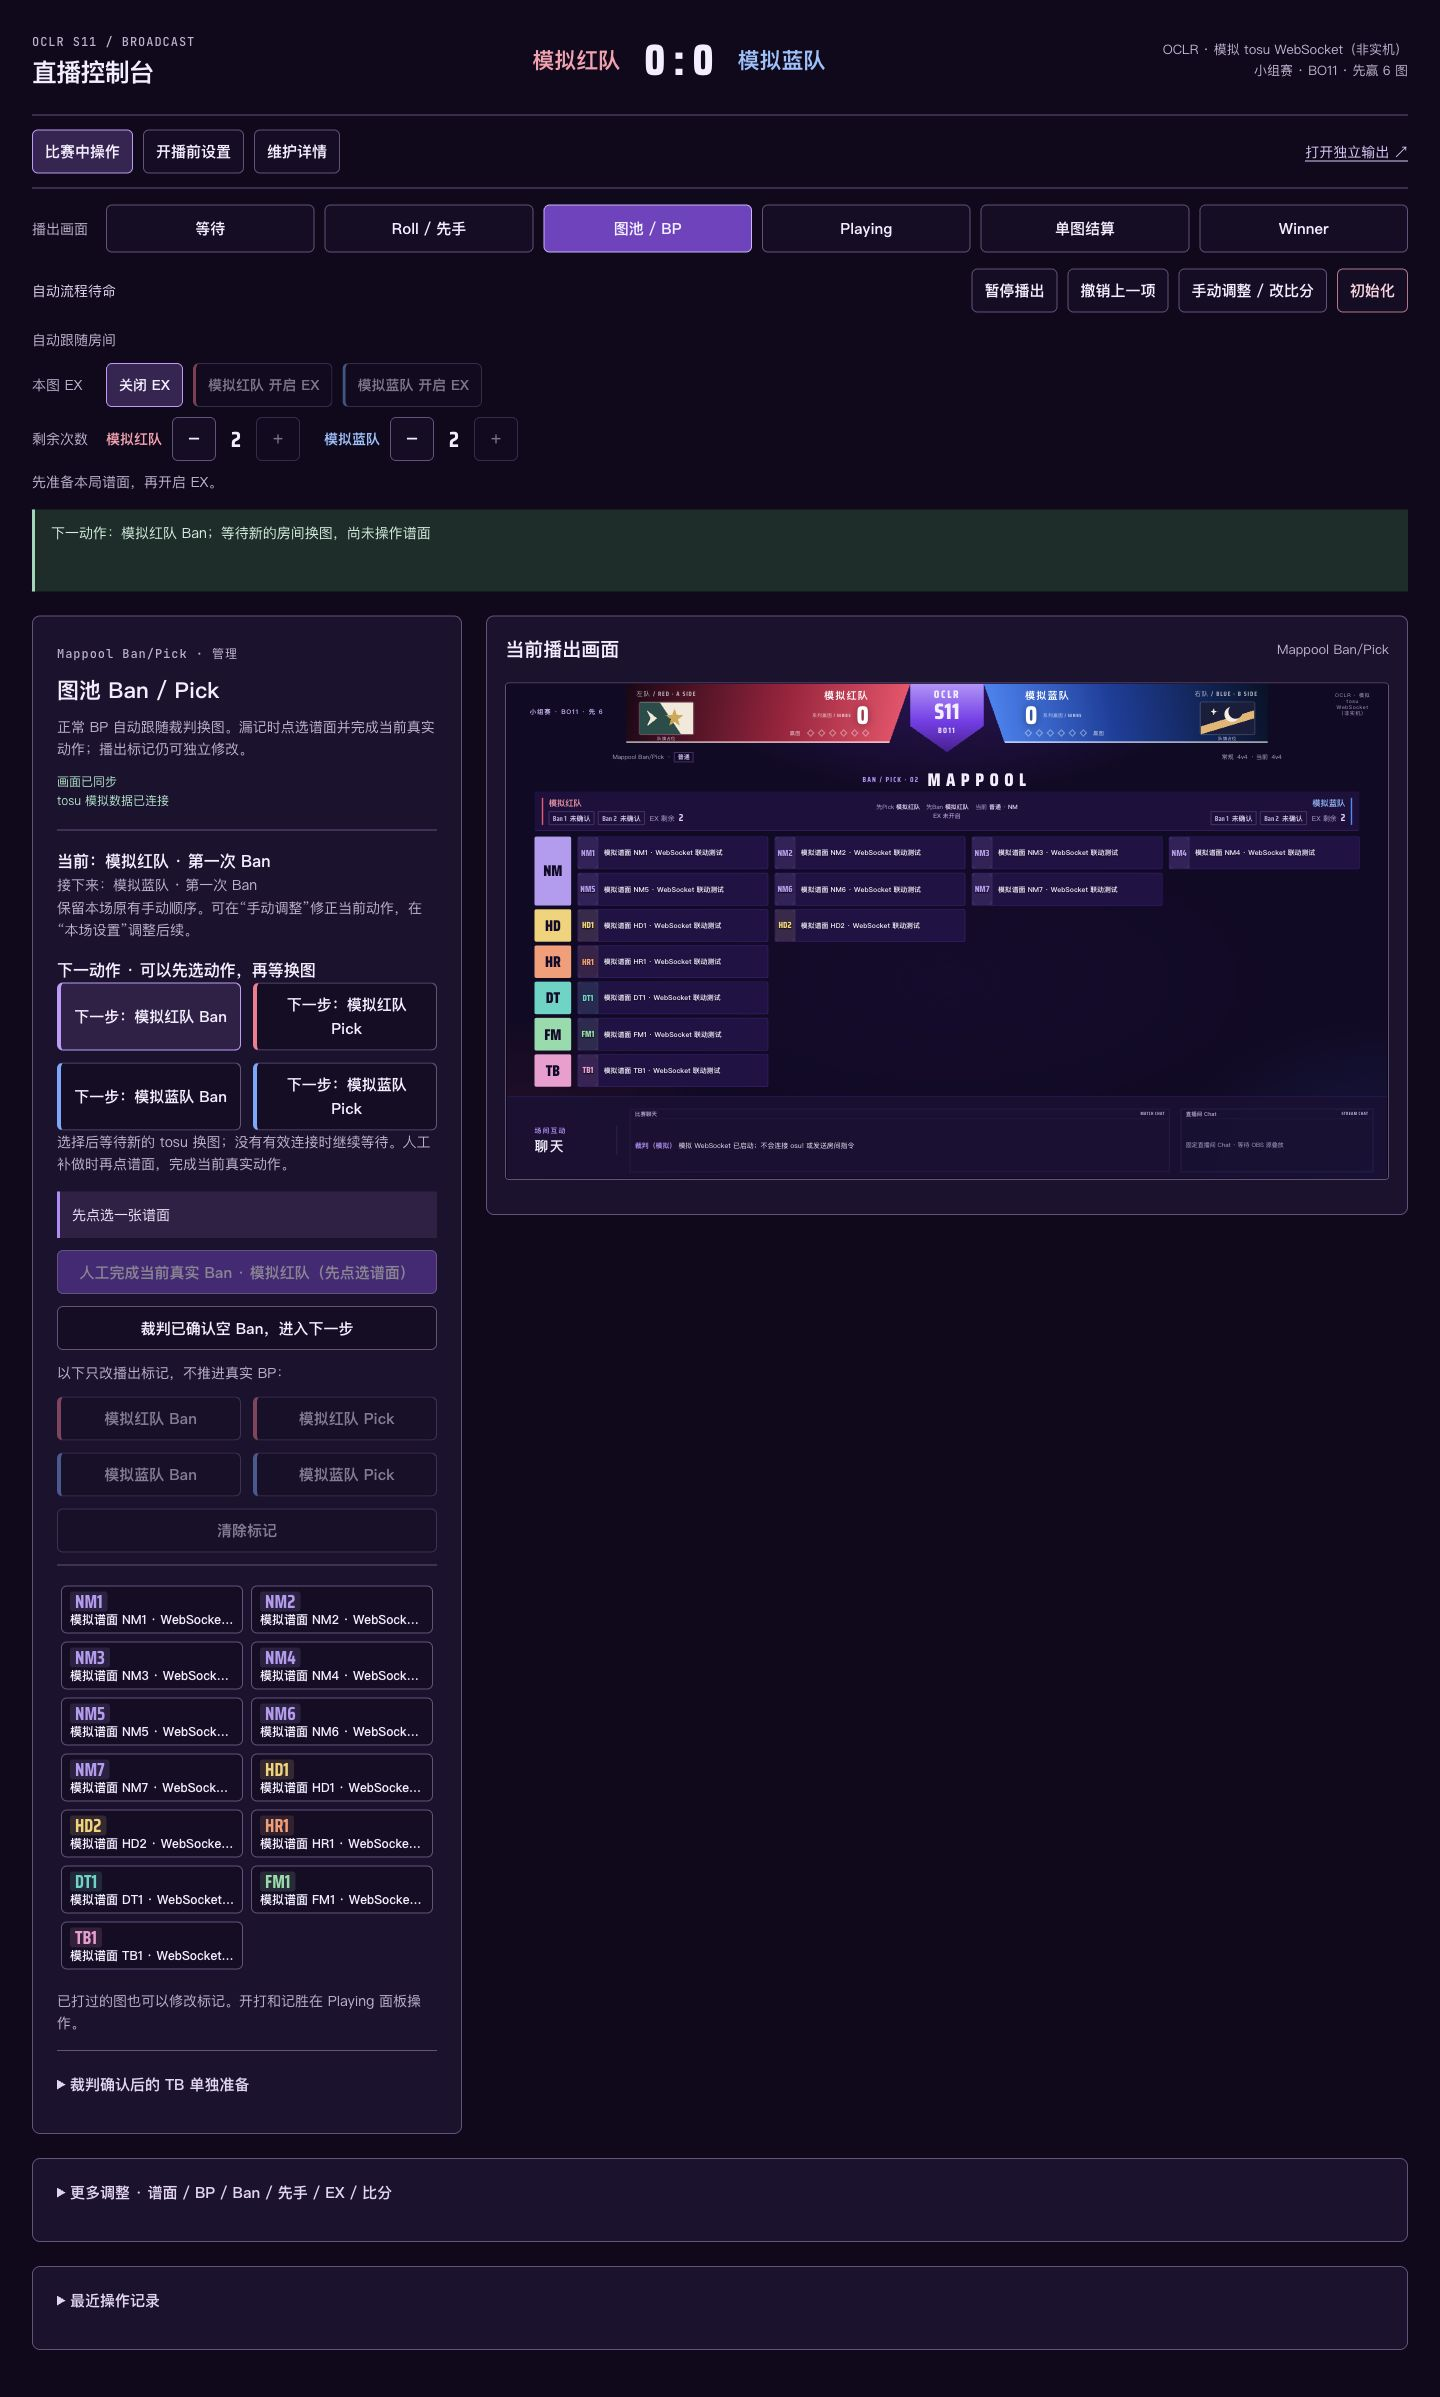
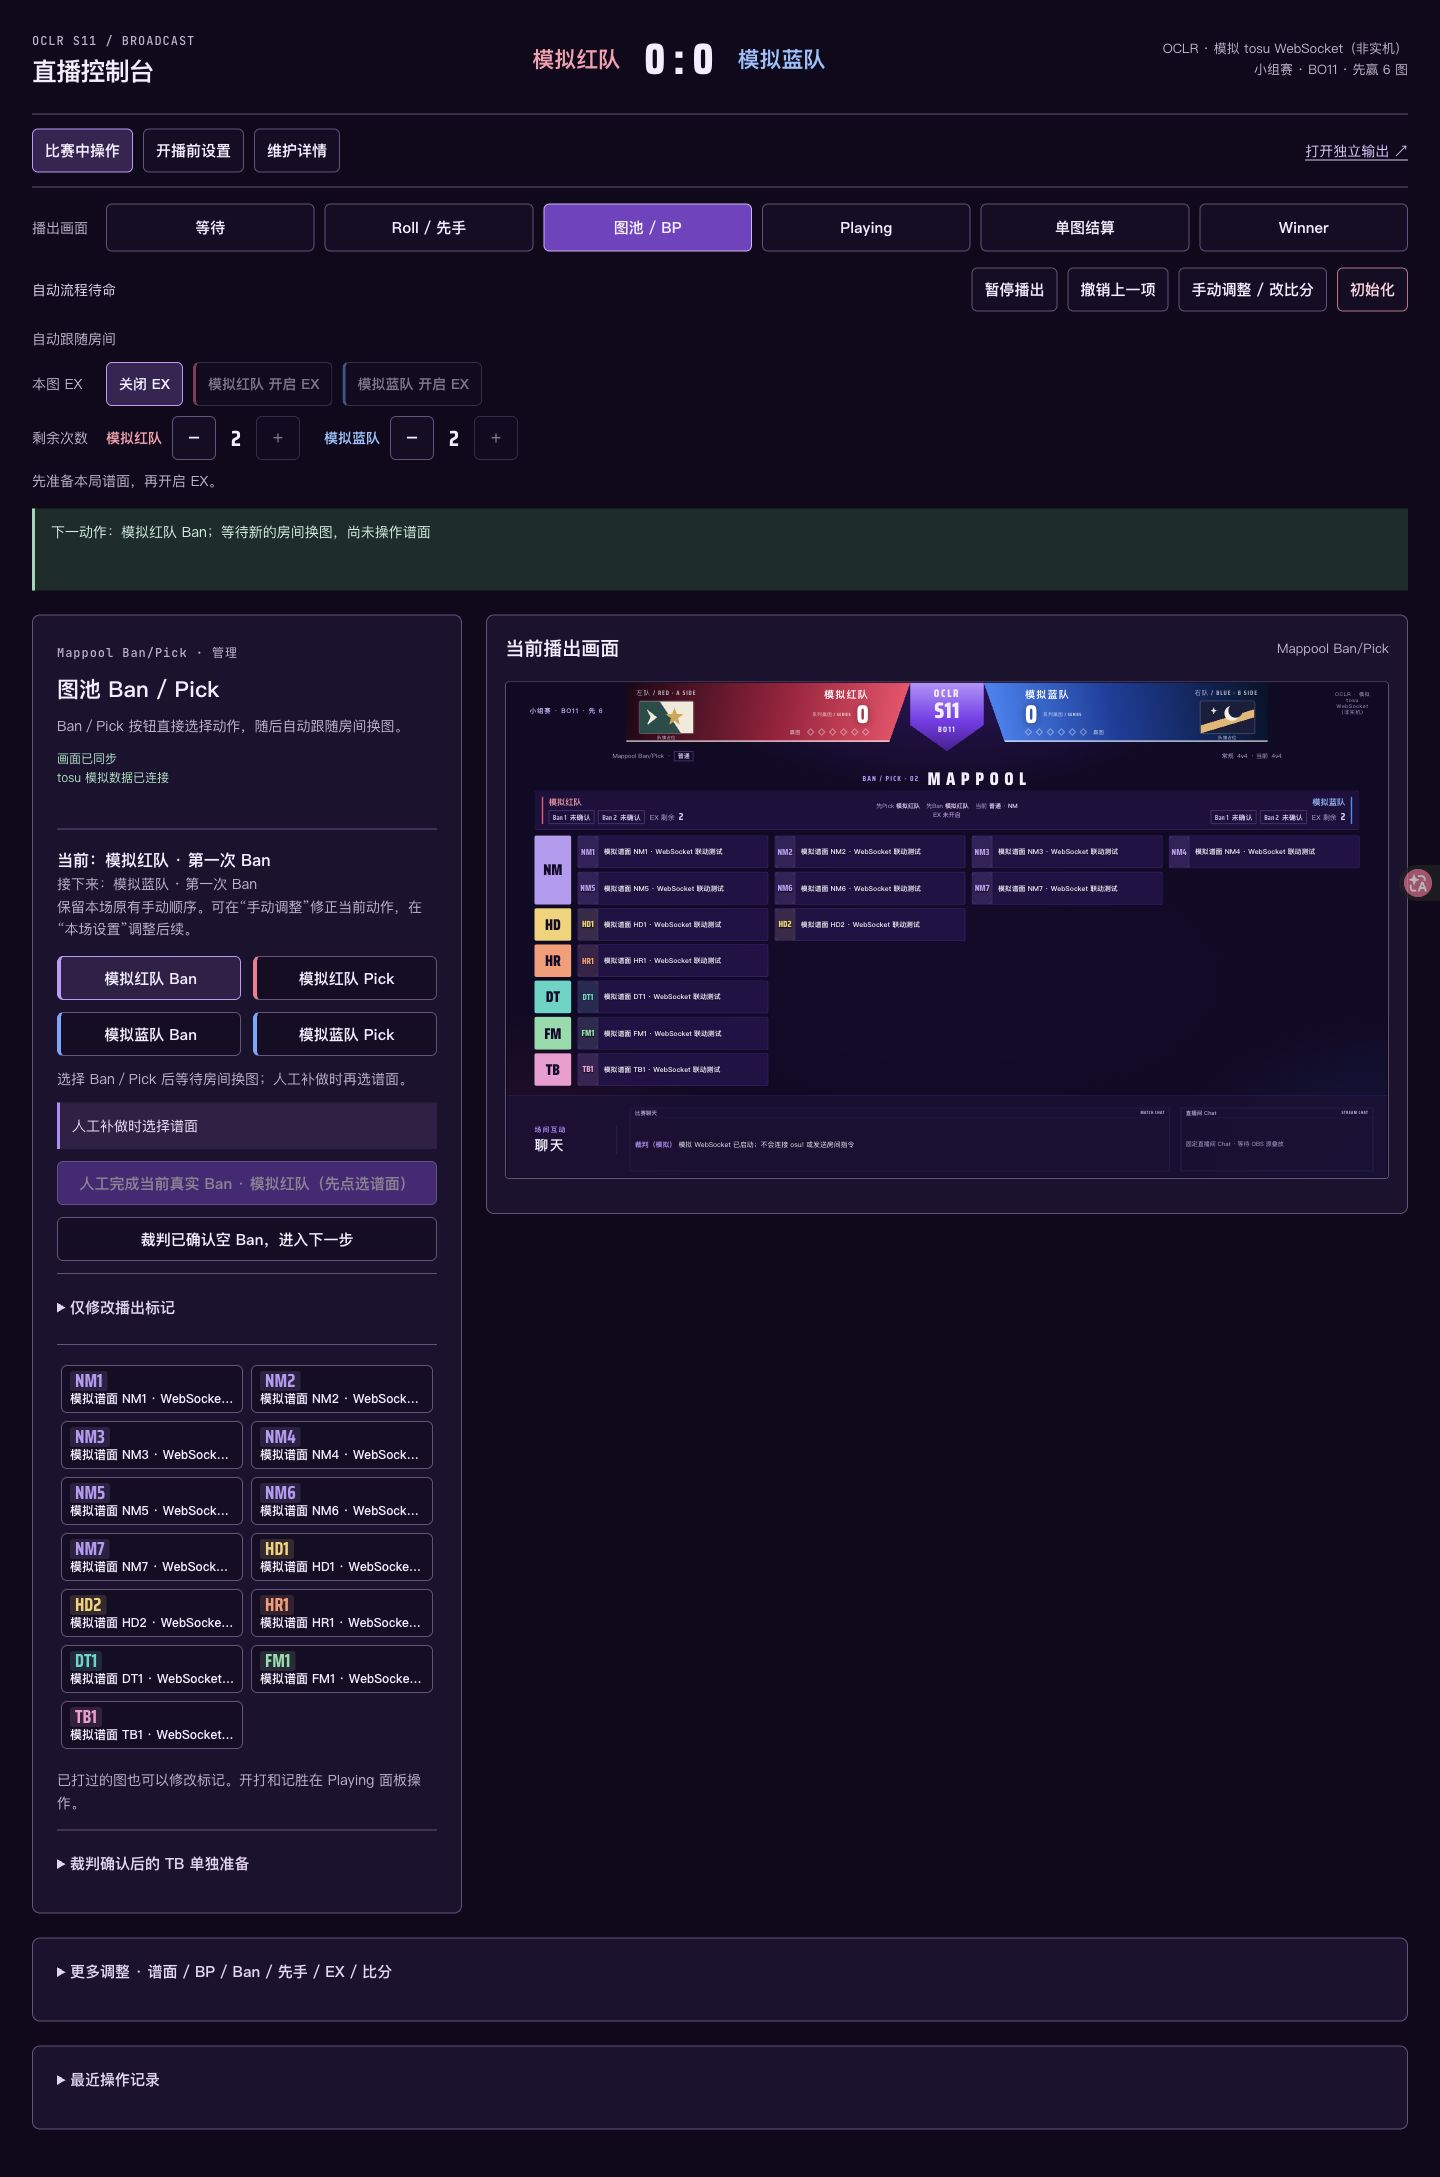
overlay: Use one set of Ban and Pick controls

diff --git a/ui/components/OperatorConsole.vue b/ui/components/OperatorConsole.vue
@@ -348,7 +348,7 @@ const nextStep = computed(() => {
   if (connection.value !== 'synced') return '控制台连接中断，正在重新连接。恢复后核对最近操作再继续。';
   if (panel.value === 'waiting') return '在这里管理双方到场与就绪状态。';
   if (panel.value === 'roll') return '分别选择先 Ban 与先 Pick，新比赛自动建立顺序；已发生的 BP、当前局和比分保留。';
-  if (panel.value === 'mappool') return '正常 BP 自动跟随裁判换图。漏记时点选谱面并完成当前真实动作；播出标记仍可独立修改。';
+  if (panel.value === 'mappool') return 'Ban／Pick 按钮直接选择动作，随后自动跟随房间换图。';
   if (panel.value === 'pause') return '调整暂停类型或返回原画面，保留比赛记录。';
   if (panel.value === 'victory') return '核对最终系列比分，选择胜方展示，或准备下一场。';
   if (s.value?.incident) return '本图自动加分已暂停。请核对实际赛果，或使用现场处理继续等待 / 重赛。';
@@ -484,18 +484,16 @@ const operationTime = (value: string) => new Date(value).toLocaleTimeString('zh-
                 <p v-if="s.bp?.mode !== 'roll'">保留本场原有手动顺序。可在“手动调整”修正当前动作，在“本场设置”调整后续。</p>
                 <p v-if="s.bp?.rollChanged">Roll 先手已修正；真实 BP 顺序保持原样，需要时使用手动纠错。</p>
               </div>
-              <section class="operator-next-action" aria-label="选择下一 BP 动作">
-                <h3>下一动作 · 可以先选动作，再等换图</h3>
-                <div class="operator-bp-buttons"><template v-for="team in (['a', 'b'] as const)" :key="team"><button v-for="kind in (['ban', 'pick'] as const)" :key="kind" :data-team="team" :aria-pressed="s.action?.team === team && s.action.kind === kind" :disabled="disabled || !!s.incident || s.paused || !!s.bp?.stopped || round?.status === 'prepared' || round?.status === 'playing'" @click="run('select-bp-action', { team, kind })">下一步：{{ names[team] }} {{ kind === 'ban' ? 'Ban' : 'Pick' }}</button></template></div>
-                <p>选择后等待新的 tosu 换图；没有有效连接时继续等待。人工补做时再点谱面，完成当前真实动作。</p>
-              </section>
-              <div class="operator-pool-actions"><p class="operator-action-now">{{ poolSelection ? `${poolSelection.label} · ${poolState(poolSelection.id) || '无标记'}` : '先点选一张谱面' }}</p>
+              <div class="operator-pool-actions">
+              <div class="operator-bp-buttons" aria-label="BP 动作"><template v-for="team in (['a', 'b'] as const)" :key="team"><button v-for="kind in (['ban', 'pick'] as const)" :key="kind" :data-team="team" :aria-pressed="s.action?.team === team && s.action.kind === kind" :disabled="disabled || !!s.incident || s.paused || !!s.bp?.stopped || round?.status === 'prepared' || round?.status === 'playing'" @click="run('select-bp-action', { team, kind })">{{ names[team] }} {{ kind === 'ban' ? 'Ban' : 'Pick' }}</button></template></div>
+              <p class="operator-hint">选择 Ban／Pick 后等待房间换图；人工补做时再选谱面。</p>
+<p class="operator-action-now">{{ poolSelection ? `${poolSelection.label} · ${poolState(poolSelection.id) || '无标记'}` : '人工补做时选择谱面' }}</p>
               <button v-if="s.bp?.canApply" class="operator-primary" :disabled="disabled || !canCompleteBp" @click="run('apply-bp', { entryId: poolEntryId, actionId: s.action?.id })">人工完成当前真实 {{ s.action?.kind === 'ban' ? 'Ban' : 'Pick' }} · {{ s.action ? names[s.action.team] : '' }}{{ poolSelection ? ` · ${poolSelection.label}` : '（先点选谱面）' }}</button>
               <button v-if="s.bp?.canReplace" :disabled="disabled || !canReplaceBp" @click="run('apply-bp', { entryId: poolEntryId })">替换本次准备图{{ poolSelection ? ` · ${poolSelection.label}` : '（先点选谱面）' }}</button>
               <button v-if="s.bp?.canApply && s.action?.kind === 'ban'" :disabled="disabled" @click="run('skip-ban', { actionId: s.action.id, reason: note('裁判确认本次放弃 / 空 Ban') })">裁判已确认空 Ban，进入下一步</button>
-              <p>以下只改播出标记，不推进真实 BP：</p>
+              <details class="operator-mark-correction"><summary>仅修改播出标记</summary><p>此处不改变真实 BP 进度。</p>
               <div class="operator-bp-buttons"><template v-for="team in (['a', 'b'] as const)" :key="team"><button v-for="kind in (['banned', 'picked'] as const)" :key="kind" :data-team="team" :aria-pressed="selectedMark?.team === team && selectedMark.status === kind" :disabled="disabled || !poolSelection" :data-unavailable="connection !== 'synced' || !poolSelection" @click="markPool(kind, team)">{{ names[team] }} {{ kind === 'banned' ? 'Ban' : 'Pick' }}</button></template></div>
-              <button :disabled="disabled || !poolSelection || selectedMark?.status === 'open'" :data-unavailable="connection !== 'synced' || !poolSelection || selectedMark?.status === 'open'" @click="markPool('open', null)">清除标记</button></div>
+              <button :disabled="disabled || !poolSelection || selectedMark?.status === 'open'" :data-unavailable="connection !== 'synced' || !poolSelection || selectedMark?.status === 'open'" @click="markPool('open', null)">清除标记</button></details></div>
               <div class="operator-pool" aria-label="本场图池"><button v-for="e in s.pool" :key="e.id" :data-mod="e.mod" :data-team="poolDisplay(s, e.id).team" :data-map-state="poolDisplay(s, e.id).status" :aria-pressed="poolEntryId === e.id" :title="e.title || `谱面 ${e.beatmapId}`" @click="poolEntryId = e.id"><strong>{{ e.label }}</strong><span>{{ e.title || `谱面 ${e.beatmapId}` }}</span><small v-if="poolState(e.id)">{{ poolState(e.id) }}</small></button></div>
               <p v-if="!s.pool.length">还没有图池，请在本场设置选择真实资料。</p>
               <p>已打过的图也可以修改标记。开打和记胜在 Playing 面板操作。</p>

diff --git a/docs/verification/action-first/README.md b/docs/verification/action-first/README.md
@@ -2,7 +2,7 @@
 
 2026-10-30（America/New_York）。仅发布通用“先选动作”交互，不带入自定义赛事、MP5资料或单轮Ban规则。
 
-Mappool 在谱面列表前提供双方各自的“下一步：队伍 Ban / Pick”。未选谱面也可点击，立即通过共享会话设置真正的待执行动作。随后匹配房间中的新换图经过现有稳定防抖，再执行该动作；选择动作本身不标记任何谱面、不新增比赛记录、不计胜、不切换全局人工状态。
+Mappool 在谱面列表前提供双方各自的 Ban / Pick 按钮。未选谱面也可点击，立即通过共享会话设置真正的待执行动作。随后匹配房间中的新换图经过现有稳定防抖，再执行该动作；选择动作本身不标记任何谱面、不新增比赛记录、不计胜、不切换全局人工状态。
 
 Ban 自动选择该队尚未完成的槽位。Roll 原有独立先手与完整OCLR顺序继续保留；点击只是明确修正本次待执行动作。如同一动作已在后续队列中，会移到当前且只执行一次，其余后续动作保持相对顺序，不重复消费。没有既定后续时只执行明确选择的一步，不猜整场规则。人工补做仍为选择谱面后完成当前真实动作，普通播出标记区继续独立。
 
@@ -17,3 +17,6 @@ Ban 自动选择该队尚未完成的槽位。Roll 原有独立先手与完整OC
 - 只增加控制台动作区，不改OBS输出组件、游戏窗口、字体、配色或挂载方式。
 
 原3007／24053未重启、未在原比赛中演练、未操作OBS。原工作区的运行构建未替换；推送代码不等于运行中的3007服务已加载本功能。真实游戏结算的既有时序限制仍沿用原验证文档。
+
+
+后续按用户反馈合并控制：移除独立“下一动作”区和“下一步”按钮前缀，直接复用控制台一组队伍Ban／Pick按钮设置真实动作。纯播出标记收进“仅修改播出标记”展开入口，不再并列显示两组相同按钮。类型检查／构建、原动作相关回归及1440／390px浏览器检查通过，服务端推进逻辑保持。

diff --git a/README.md b/README.md
@@ -143,4 +143,4 @@ npm test
 
 Roll 到完整 BP 的实现、兼容与隔离验证见 [Roll / BP 衔接验收](docs/verification/roll-bp/README.md)。当前 3007 服务未重启，需后续有序加载新后端才能使用本次功能。
 
-Mappool 支持先点击“下一步：队伍 Ban / Pick”，无需先选谱面；服务器随后按该动作跟随新的有效房间换图。要人工补做时再点谱面并完成当前真实动作，下面的播出标记仍独立。OCLR原有BP轮换保持，详见[动作优先验收](docs/verification/action-first/README.md)。
+Mappool 支持先点击队伍 Ban / Pick 按钮，无需先选谱面；服务器随后按该动作跟随新的有效房间换图。要人工补做时再点谱面并完成当前真实动作，下面的播出标记仍独立。OCLR原有BP轮换保持，详见[动作优先验收](docs/verification/action-first/README.md)。
